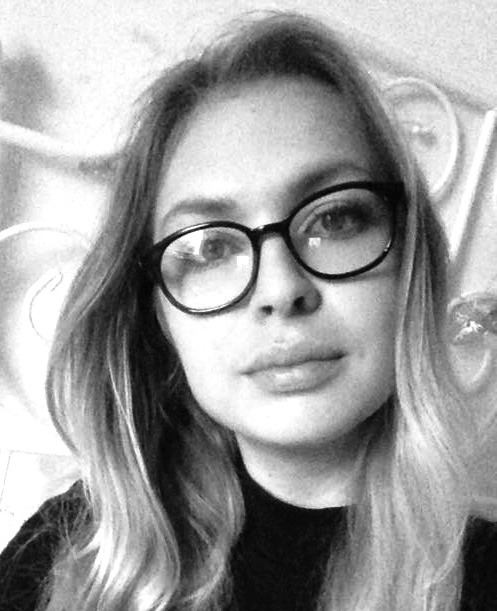
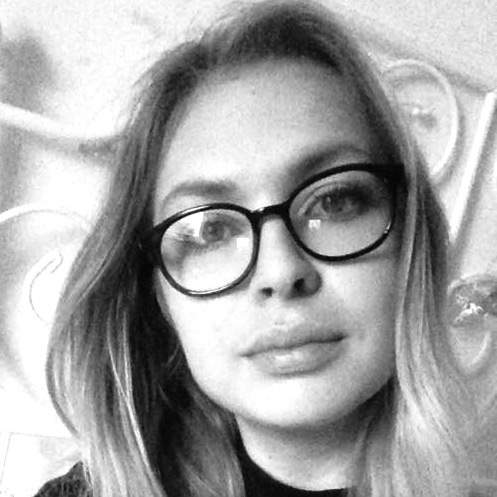
layout centered

diff --git a/app/assets/stylesheets/welcome.scss b/app/assets/stylesheets/welcome.scss
@@ -11,3 +11,41 @@ nav {
 body {
   background-color:$grey;
 }
+
+.row {
+  width: 100%;
+  margin: 50px 0 50px 0;
+}
+
+.title {
+  width: 100%;
+  text-align: center;
+  margin: 50px 0 50px 0;
+}
+
+.site-name, .logo {
+  display: inline-block;
+  vertical-align: middle;
+}
+
+.profile-pic {
+  img{
+  border-radius: 50%;
+  border: 5px solid #fff;
+  max-width: 120px;
+  }
+}
+
+.center {
+  text-align: center;
+}
+
+ul {
+  list-style: none;
+  text-align: center;
+  background-color: #fff;
+  padding: 35px;
+  li {
+    display: inline-block;
+  }
+}
